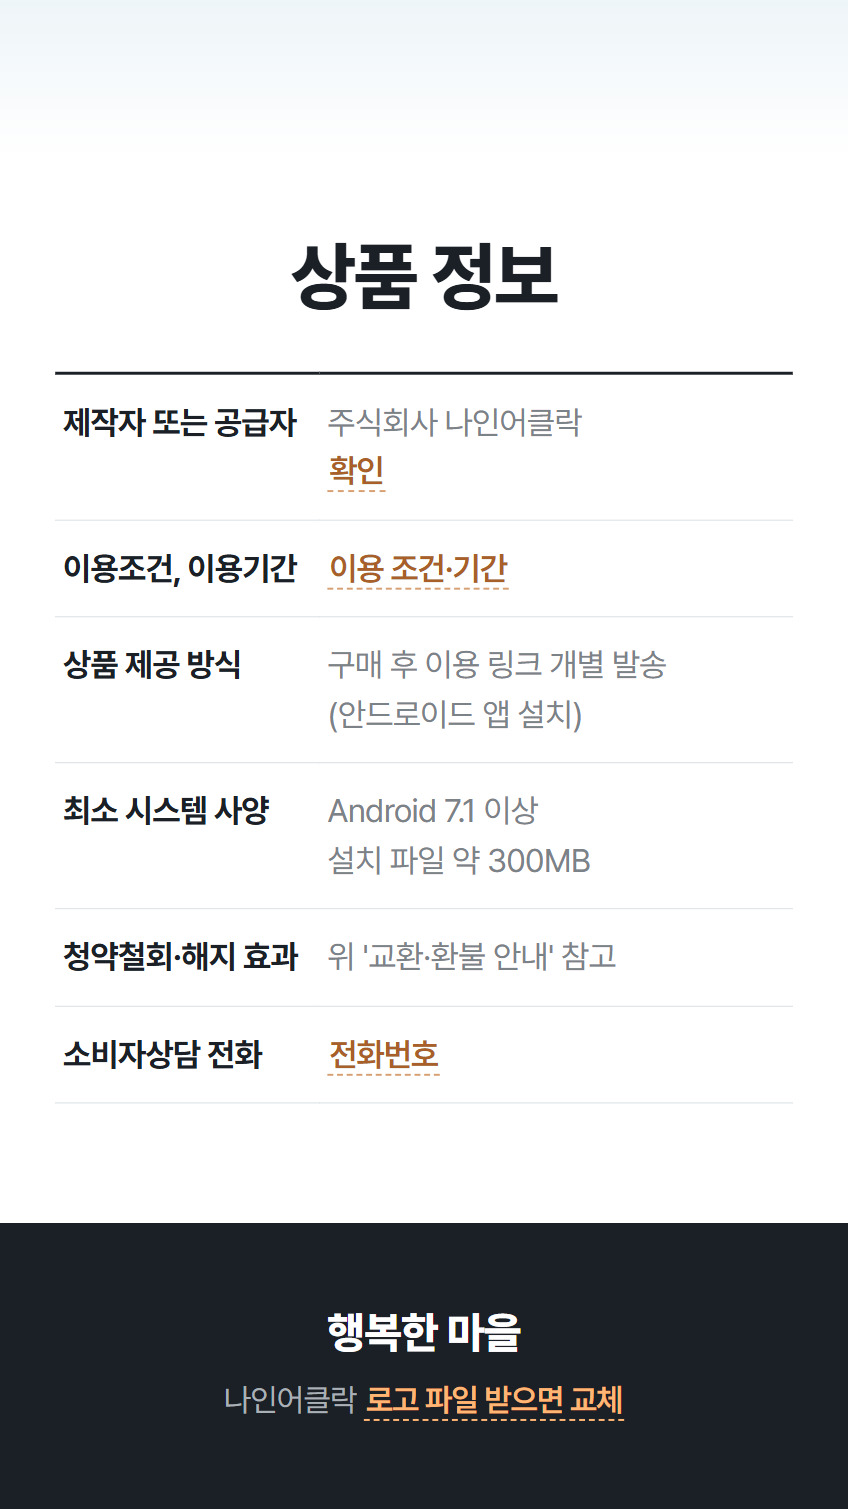
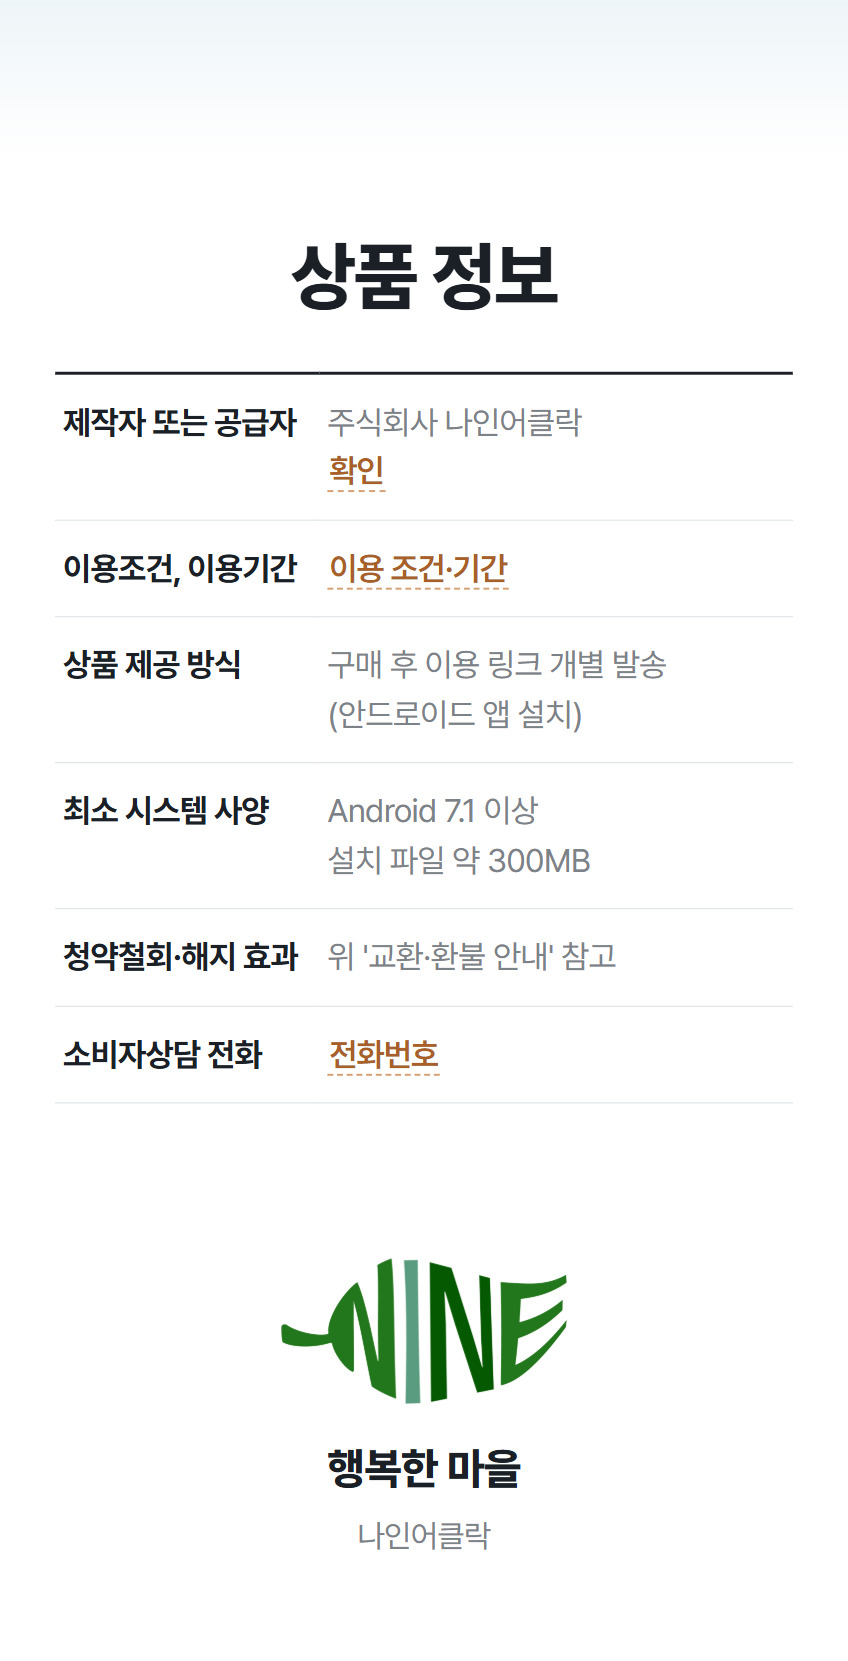
시안 미리보기 갱신 20261111-104804

diff --git a/a/index.html b/a/index.html
@@ -35,6 +35,7 @@
   .shead { display: flex; align-items: center; gap: 2px; height: 52px; padding: 0 6px 0 4px; border-bottom: 1px solid var(--line); }
   .shead .ic { display: grid; place-items: center; width: 44px; height: 44px; }
   .shead strong { flex: 1; font-size: 17px; font-weight: 700; letter-spacing: -0.02em; }
+  .shead .slogo { flex: none; width: auto; height: 28px; margin: 0 8px 0 2px; }
   .sfield { display: none; }
   .snav { display: flex; gap: 22px; padding: 0 16px; border-bottom: 1px solid var(--line); overflow-x: auto; scrollbar-width: none; }
   .snav::-webkit-scrollbar { display: none; }
@@ -144,7 +145,7 @@
 <main class="col" id="col">
   <header class="shead">
     <span class="ic back" aria-hidden="true"><svg width="24" height="24" viewBox="0 0 24 24" fill="none" stroke="#222" stroke-width="2" stroke-linecap="round" stroke-linejoin="round"><path d="M15 5l-7 7 7 7"/></svg></span>
-    <strong>나인어클락</strong>
+    <img class="slogo" src="img/logo.png" alt=""><strong>나인어클락</strong>
     <span class="sfield" aria-hidden="true">스토어 내 검색<svg width="18" height="18" viewBox="0 0 24 24" fill="none" stroke="#929294" stroke-width="2" stroke-linecap="round"><circle cx="11" cy="11" r="7"/><path d="M16.5 16.5L21 21"/></svg></span>
     <span class="ic srch" aria-hidden="true"><svg width="24" height="24" viewBox="0 0 24 24" fill="none" stroke="#222" stroke-width="1.8" stroke-linecap="round"><circle cx="11" cy="11" r="7"/><path d="M16.5 16.5L21 21"/></svg></span>
     <span class="ic" aria-hidden="true"><svg width="24" height="24" viewBox="0 0 24 24" fill="none" stroke="#222" stroke-width="1.8" stroke-linecap="round" stroke-linejoin="round"><path d="M3 4h2.2l2.3 11h10.2l2-8H6.4"/><circle cx="9" cy="19" r="1.4"/><circle cx="17" cy="19" r="1.4"/></svg></span>
@@ -161,7 +162,7 @@
 <div class="toast" id="toast" role="status"></div>
 
 <script>
-  const DATA = {"shoe": {"short": "신발끈 교구", "name": "신발끈 묶기 연습 교구", "store": "나인어클락", "price": "가격 미정", "rows": [["배송", "택배배송 · 배송비 미정"], ["옵션", "1개입 · 2개입"]], "gallery": ["img/shoe/thumb1.jpg", "img/shoe/thumb2.jpg", "img/shoe/thumb3.jpg", "img/shoe/thumb4.jpg"], "spec": "가로 848px · 이미지 15장 (움직이는 그림 3개) · 세로 28,569px", "files": [{"src": "img/shoe/01.gif", "w": 848, "h": 1486}, {"src": "img/shoe/02.jpg", "w": 848, "h": 2784}, {"src": "img/shoe/03.jpg", "w": 848, "h": 2670}, {"src": "img/shoe/04.gif", "w": 848, "h": 613}, {"src": "img/shoe/05.jpg", "w": 848, "h": 2795}, {"src": "img/shoe/06.jpg", "w": 848, "h": 1738}, {"src": "img/shoe/07.jpg", "w": 848, "h": 1763}, {"src": "img/shoe/08.jpg", "w": 848, "h": 1519}, {"src": "img/shoe/09.jpg", "w": 848, "h": 2971}, {"src": "img/shoe/10.gif", "w": 848, "h": 1074}, {"src": "img/shoe/11.jpg", "w": 848, "h": 2002}, {"src": "img/shoe/12.jpg", "w": 848, "h": 1267}, {"src": "img/shoe/13.jpg", "w": 848, "h": 2233}, {"src": "img/shoe/14.jpg", "w": 848, "h": 2218}, {"src": "img/shoe/15.jpg", "w": 848, "h": 1436}]}, "app": {"short": "행복한 마을", "name": "행복한 마을", "store": "나인어클락", "price": "가격 미정", "rows": [["배송", "배송 없음 · 구매 후 이용 링크 발송"]], "gallery": ["img/app/thumb1.jpg", "img/app/thumb2.jpg", "img/app/thumb3.jpg"], "spec": "가로 848px · 이미지 18장 (움직이는 그림 3개) · 세로 33,400px", "files": [{"src": "img/app/01.jpg", "w": 848, "h": 730}, {"src": "img/app/02.gif", "w": 848, "h": 1658}, {"src": "img/app/03.jpg", "w": 848, "h": 2096}, {"src": "img/app/04.jpg", "w": 848, "h": 1446}, {"src": "img/app/05.jpg", "w": 848, "h": 1581}, {"src": "img/app/06.gif", "w": 848, "h": 1533}, {"src": "img/app/07.jpg", "w": 848, "h": 2751}, {"src": "img/app/08.jpg", "w": 848, "h": 2050}, {"src": "img/app/09.gif", "w": 848, "h": 1359}, {"src": "img/app/10.jpg", "w": 848, "h": 1776}, {"src": "img/app/11.jpg", "w": 848, "h": 2325}, {"src": "img/app/12.jpg", "w": 848, "h": 1128}, {"src": "img/app/13.jpg", "w": 848, "h": 2152}, {"src": "img/app/14.jpg", "w": 848, "h": 1994}, {"src": "img/app/15.jpg", "w": 848, "h": 2065}, {"src": "img/app/16.jpg", "w": 848, "h": 2704}, {"src": "img/app/17.jpg", "w": 848, "h": 2543}, {"src": "img/app/18.jpg", "w": 848, "h": 1509}]}};
+  const DATA = {"shoe": {"short": "신발끈 교구", "name": "신발끈 묶기 연습 교구", "store": "나인어클락", "price": "가격 미정", "rows": [["배송", "택배배송 · 배송비 미정"], ["옵션", "1개입 · 2개입"]], "gallery": ["img/shoe/thumb1.jpg", "img/shoe/thumb2.jpg", "img/shoe/thumb3.jpg", "img/shoe/thumb4.jpg"], "spec": "가로 848px · 이미지 15장 (움직이는 그림 3개) · 세로 29,537px", "files": [{"src": "img/shoe/01.gif", "w": 848, "h": 1486}, {"src": "img/shoe/02.jpg", "w": 848, "h": 2784}, {"src": "img/shoe/03.jpg", "w": 848, "h": 2670}, {"src": "img/shoe/04.gif", "w": 848, "h": 613}, {"src": "img/shoe/05.jpg", "w": 848, "h": 2795}, {"src": "img/shoe/06.jpg", "w": 848, "h": 1738}, {"src": "img/shoe/07.jpg", "w": 848, "h": 1763}, {"src": "img/shoe/08.jpg", "w": 848, "h": 1519}, {"src": "img/shoe/09.jpg", "w": 848, "h": 2971}, {"src": "img/shoe/10.gif", "w": 848, "h": 1074}, {"src": "img/shoe/11.jpg", "w": 848, "h": 2098}, {"src": "img/shoe/12.jpg", "w": 848, "h": 1330}, {"src": "img/shoe/13.jpg", "w": 848, "h": 2509}, {"src": "img/shoe/14.jpg", "w": 848, "h": 2461}, {"src": "img/shoe/15.jpg", "w": 848, "h": 1726}]}, "app": {"short": "행복한 마을", "name": "행복한 마을", "store": "나인어클락", "price": "가격 미정", "rows": [["배송", "배송 없음 · 구매 후 이용 링크 발송"]], "gallery": ["img/app/thumb1.jpg", "img/app/thumb2.jpg", "img/app/thumb3.jpg"], "spec": "가로 848px · 이미지 18장 (움직이는 그림 3개) · 세로 33,552px", "files": [{"src": "img/app/01.jpg", "w": 848, "h": 730}, {"src": "img/app/02.gif", "w": 848, "h": 1658}, {"src": "img/app/03.jpg", "w": 848, "h": 2096}, {"src": "img/app/04.jpg", "w": 848, "h": 1446}, {"src": "img/app/05.jpg", "w": 848, "h": 1581}, {"src": "img/app/06.gif", "w": 848, "h": 1533}, {"src": "img/app/07.jpg", "w": 848, "h": 2751}, {"src": "img/app/08.jpg", "w": 848, "h": 2050}, {"src": "img/app/09.gif", "w": 848, "h": 1359}, {"src": "img/app/10.jpg", "w": 848, "h": 1776}, {"src": "img/app/11.jpg", "w": 848, "h": 2325}, {"src": "img/app/12.jpg", "w": 848, "h": 1128}, {"src": "img/app/13.jpg", "w": 848, "h": 2152}, {"src": "img/app/14.jpg", "w": 848, "h": 1994}, {"src": "img/app/15.jpg", "w": 848, "h": 2065}, {"src": "img/app/16.jpg", "w": 848, "h": 2704}, {"src": "img/app/17.jpg", "w": 848, "h": 2543}, {"src": "img/app/18.jpg", "w": 848, "h": 1661}]}};
   const VARIANT = {"cur": "a", "home": "../", "items": [{"k": "a", "label": "A안", "href": "../a/"}, {"k": "b", "label": "B안", "href": "../b/"}]};
   const KEYS = Object.keys(DATA);
   const col = document.getElementById("col");

diff --git a/b/index.html b/b/index.html
@@ -35,6 +35,7 @@
   .shead { display: flex; align-items: center; gap: 2px; height: 52px; padding: 0 6px 0 4px; border-bottom: 1px solid var(--line); }
   .shead .ic { display: grid; place-items: center; width: 44px; height: 44px; }
   .shead strong { flex: 1; font-size: 17px; font-weight: 700; letter-spacing: -0.02em; }
+  .shead .slogo { flex: none; width: auto; height: 28px; margin: 0 8px 0 2px; }
   .sfield { display: none; }
   .snav { display: flex; gap: 22px; padding: 0 16px; border-bottom: 1px solid var(--line); overflow-x: auto; scrollbar-width: none; }
   .snav::-webkit-scrollbar { display: none; }
@@ -144,7 +145,7 @@
 <main class="col" id="col">
   <header class="shead">
     <span class="ic back" aria-hidden="true"><svg width="24" height="24" viewBox="0 0 24 24" fill="none" stroke="#222" stroke-width="2" stroke-linecap="round" stroke-linejoin="round"><path d="M15 5l-7 7 7 7"/></svg></span>
-    <strong>나인어클락</strong>
+    <img class="slogo" src="img/logo.png" alt=""><strong>나인어클락</strong>
     <span class="sfield" aria-hidden="true">스토어 내 검색<svg width="18" height="18" viewBox="0 0 24 24" fill="none" stroke="#929294" stroke-width="2" stroke-linecap="round"><circle cx="11" cy="11" r="7"/><path d="M16.5 16.5L21 21"/></svg></span>
     <span class="ic srch" aria-hidden="true"><svg width="24" height="24" viewBox="0 0 24 24" fill="none" stroke="#222" stroke-width="1.8" stroke-linecap="round"><circle cx="11" cy="11" r="7"/><path d="M16.5 16.5L21 21"/></svg></span>
     <span class="ic" aria-hidden="true"><svg width="24" height="24" viewBox="0 0 24 24" fill="none" stroke="#222" stroke-width="1.8" stroke-linecap="round" stroke-linejoin="round"><path d="M3 4h2.2l2.3 11h10.2l2-8H6.4"/><circle cx="9" cy="19" r="1.4"/><circle cx="17" cy="19" r="1.4"/></svg></span>
@@ -161,7 +162,7 @@
 <div class="toast" id="toast" role="status"></div>
 
 <script>
-  const DATA = {"shoe": {"short": "신발끈 교구", "name": "신발끈 묶기 연습 교구", "store": "나인어클락", "price": "가격 미정", "rows": [["배송", "택배배송 · 배송비 미정"], ["옵션", "1개입 · 2개입"]], "gallery": ["img/shoe/thumb1.jpg", "img/shoe/thumb2.jpg", "img/shoe/thumb3.jpg", "img/shoe/thumb4.jpg"], "spec": "가로 848px · 이미지 15장 (움직이는 그림 3개) · 세로 28,569px", "files": [{"src": "img/shoe/01.gif", "w": 848, "h": 1486}, {"src": "img/shoe/02.jpg", "w": 848, "h": 2784}, {"src": "img/shoe/03.jpg", "w": 848, "h": 2670}, {"src": "img/shoe/04.gif", "w": 848, "h": 613}, {"src": "img/shoe/05.jpg", "w": 848, "h": 2795}, {"src": "img/shoe/06.jpg", "w": 848, "h": 1738}, {"src": "img/shoe/07.jpg", "w": 848, "h": 1763}, {"src": "img/shoe/08.jpg", "w": 848, "h": 1519}, {"src": "img/shoe/09.jpg", "w": 848, "h": 2971}, {"src": "img/shoe/10.gif", "w": 848, "h": 1074}, {"src": "img/shoe/11.jpg", "w": 848, "h": 2002}, {"src": "img/shoe/12.jpg", "w": 848, "h": 1267}, {"src": "img/shoe/13.jpg", "w": 848, "h": 2233}, {"src": "img/shoe/14.jpg", "w": 848, "h": 2218}, {"src": "img/shoe/15.jpg", "w": 848, "h": 1436}]}, "app": {"short": "행복한 마을", "name": "행복한 마을", "store": "나인어클락", "price": "가격 미정", "rows": [["배송", "배송 없음 · 구매 후 이용 링크 발송"]], "gallery": ["img/app/thumb1.jpg", "img/app/thumb2.jpg", "img/app/thumb3.jpg"], "spec": "가로 848px · 이미지 18장 (움직이는 그림 3개) · 세로 33,400px", "files": [{"src": "img/app/01.jpg", "w": 848, "h": 730}, {"src": "img/app/02.gif", "w": 848, "h": 1658}, {"src": "img/app/03.jpg", "w": 848, "h": 2096}, {"src": "img/app/04.jpg", "w": 848, "h": 1446}, {"src": "img/app/05.jpg", "w": 848, "h": 1581}, {"src": "img/app/06.gif", "w": 848, "h": 1533}, {"src": "img/app/07.jpg", "w": 848, "h": 2751}, {"src": "img/app/08.jpg", "w": 848, "h": 2050}, {"src": "img/app/09.gif", "w": 848, "h": 1359}, {"src": "img/app/10.jpg", "w": 848, "h": 1776}, {"src": "img/app/11.jpg", "w": 848, "h": 2325}, {"src": "img/app/12.jpg", "w": 848, "h": 1128}, {"src": "img/app/13.jpg", "w": 848, "h": 2152}, {"src": "img/app/14.jpg", "w": 848, "h": 1994}, {"src": "img/app/15.jpg", "w": 848, "h": 2065}, {"src": "img/app/16.jpg", "w": 848, "h": 2704}, {"src": "img/app/17.jpg", "w": 848, "h": 2543}, {"src": "img/app/18.jpg", "w": 848, "h": 1509}]}};
+  const DATA = {"shoe": {"short": "신발끈 교구", "name": "신발끈 묶기 연습 교구", "store": "나인어클락", "price": "가격 미정", "rows": [["배송", "택배배송 · 배송비 미정"], ["옵션", "1개입 · 2개입"]], "gallery": ["img/shoe/thumb1.jpg", "img/shoe/thumb2.jpg", "img/shoe/thumb3.jpg", "img/shoe/thumb4.jpg"], "spec": "가로 848px · 이미지 15장 (움직이는 그림 3개) · 세로 29,537px", "files": [{"src": "img/shoe/01.gif", "w": 848, "h": 1486}, {"src": "img/shoe/02.jpg", "w": 848, "h": 2784}, {"src": "img/shoe/03.jpg", "w": 848, "h": 2670}, {"src": "img/shoe/04.gif", "w": 848, "h": 613}, {"src": "img/shoe/05.jpg", "w": 848, "h": 2795}, {"src": "img/shoe/06.jpg", "w": 848, "h": 1738}, {"src": "img/shoe/07.jpg", "w": 848, "h": 1763}, {"src": "img/shoe/08.jpg", "w": 848, "h": 1519}, {"src": "img/shoe/09.jpg", "w": 848, "h": 2971}, {"src": "img/shoe/10.gif", "w": 848, "h": 1074}, {"src": "img/shoe/11.jpg", "w": 848, "h": 2098}, {"src": "img/shoe/12.jpg", "w": 848, "h": 1330}, {"src": "img/shoe/13.jpg", "w": 848, "h": 2509}, {"src": "img/shoe/14.jpg", "w": 848, "h": 2461}, {"src": "img/shoe/15.jpg", "w": 848, "h": 1726}]}, "app": {"short": "행복한 마을", "name": "행복한 마을", "store": "나인어클락", "price": "가격 미정", "rows": [["배송", "배송 없음 · 구매 후 이용 링크 발송"]], "gallery": ["img/app/thumb1.jpg", "img/app/thumb2.jpg", "img/app/thumb3.jpg"], "spec": "가로 848px · 이미지 18장 (움직이는 그림 3개) · 세로 33,552px", "files": [{"src": "img/app/01.jpg", "w": 848, "h": 730}, {"src": "img/app/02.gif", "w": 848, "h": 1658}, {"src": "img/app/03.jpg", "w": 848, "h": 2096}, {"src": "img/app/04.jpg", "w": 848, "h": 1446}, {"src": "img/app/05.jpg", "w": 848, "h": 1581}, {"src": "img/app/06.gif", "w": 848, "h": 1533}, {"src": "img/app/07.jpg", "w": 848, "h": 2751}, {"src": "img/app/08.jpg", "w": 848, "h": 2050}, {"src": "img/app/09.gif", "w": 848, "h": 1359}, {"src": "img/app/10.jpg", "w": 848, "h": 1776}, {"src": "img/app/11.jpg", "w": 848, "h": 2325}, {"src": "img/app/12.jpg", "w": 848, "h": 1128}, {"src": "img/app/13.jpg", "w": 848, "h": 2152}, {"src": "img/app/14.jpg", "w": 848, "h": 1994}, {"src": "img/app/15.jpg", "w": 848, "h": 2065}, {"src": "img/app/16.jpg", "w": 848, "h": 2704}, {"src": "img/app/17.jpg", "w": 848, "h": 2543}, {"src": "img/app/18.jpg", "w": 848, "h": 1661}]}};
   const VARIANT = {"cur": "b", "home": "../", "items": [{"k": "a", "label": "A안", "href": "../a/"}, {"k": "b", "label": "B안", "href": "../b/"}]};
   const KEYS = Object.keys(DATA);
   const col = document.getElementById("col");

diff --git a/index.html b/index.html
@@ -1,7 +1,7 @@
 <!doctype html>
 <html lang="ko">
 <head>
-<meta name="sian-build" content="20261110-175149">
+<meta name="sian-build" content="20261111-104804">
 <meta charset="utf-8">
 <meta name="viewport" content="width=device-width, initial-scale=1">
 <meta name="robots" content="noindex, nofollow">
